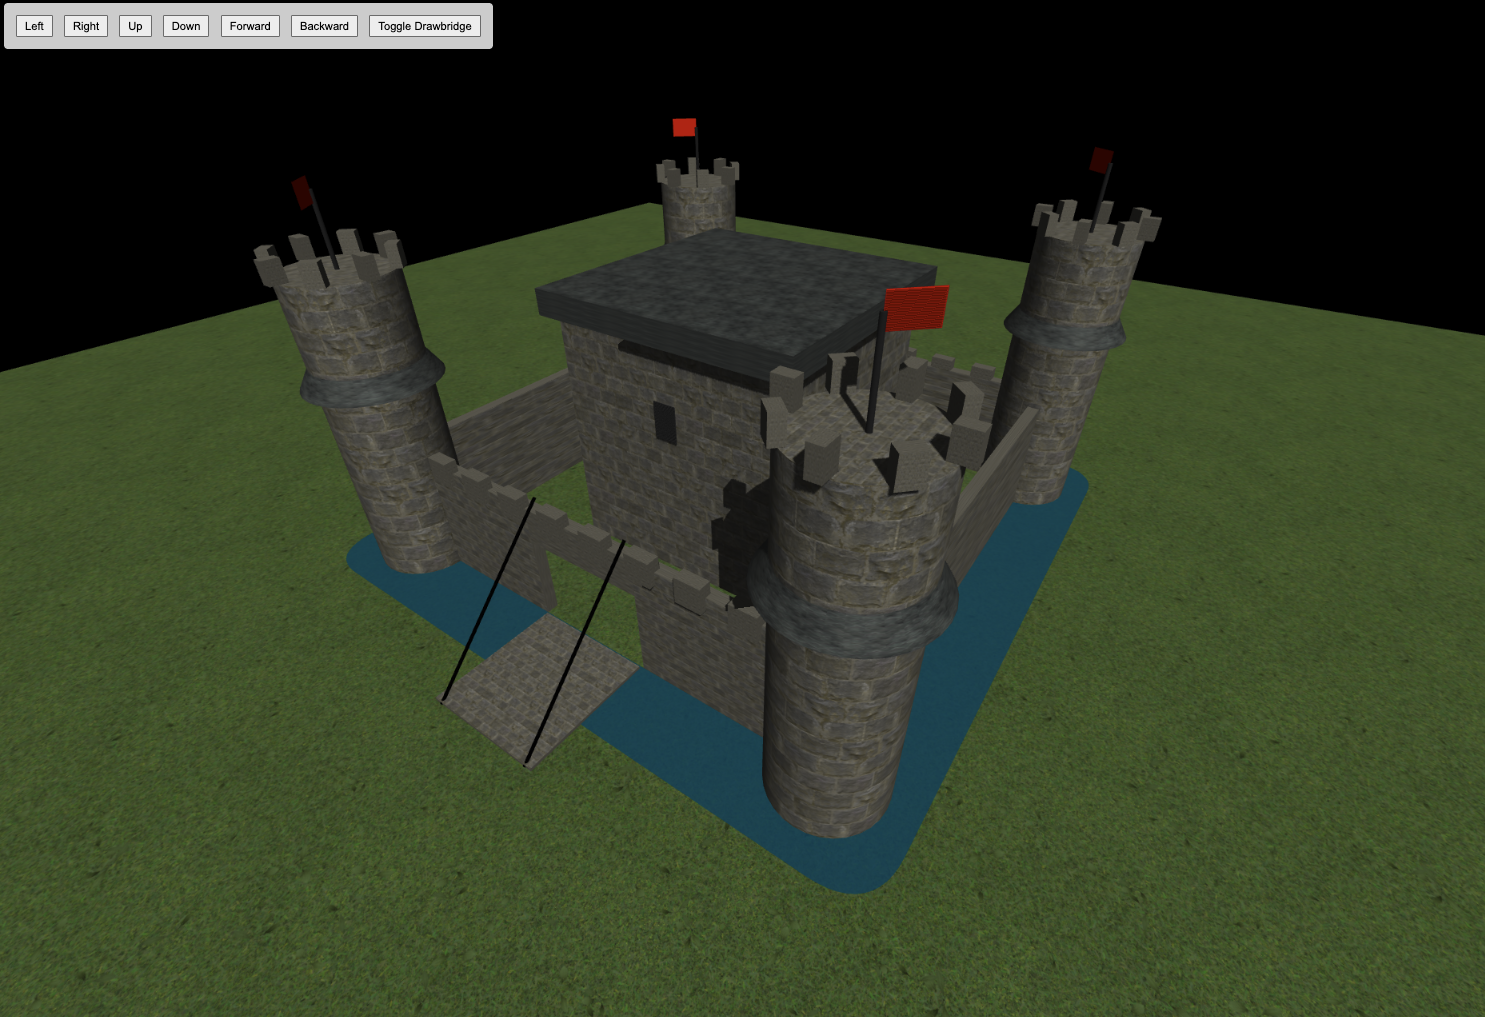
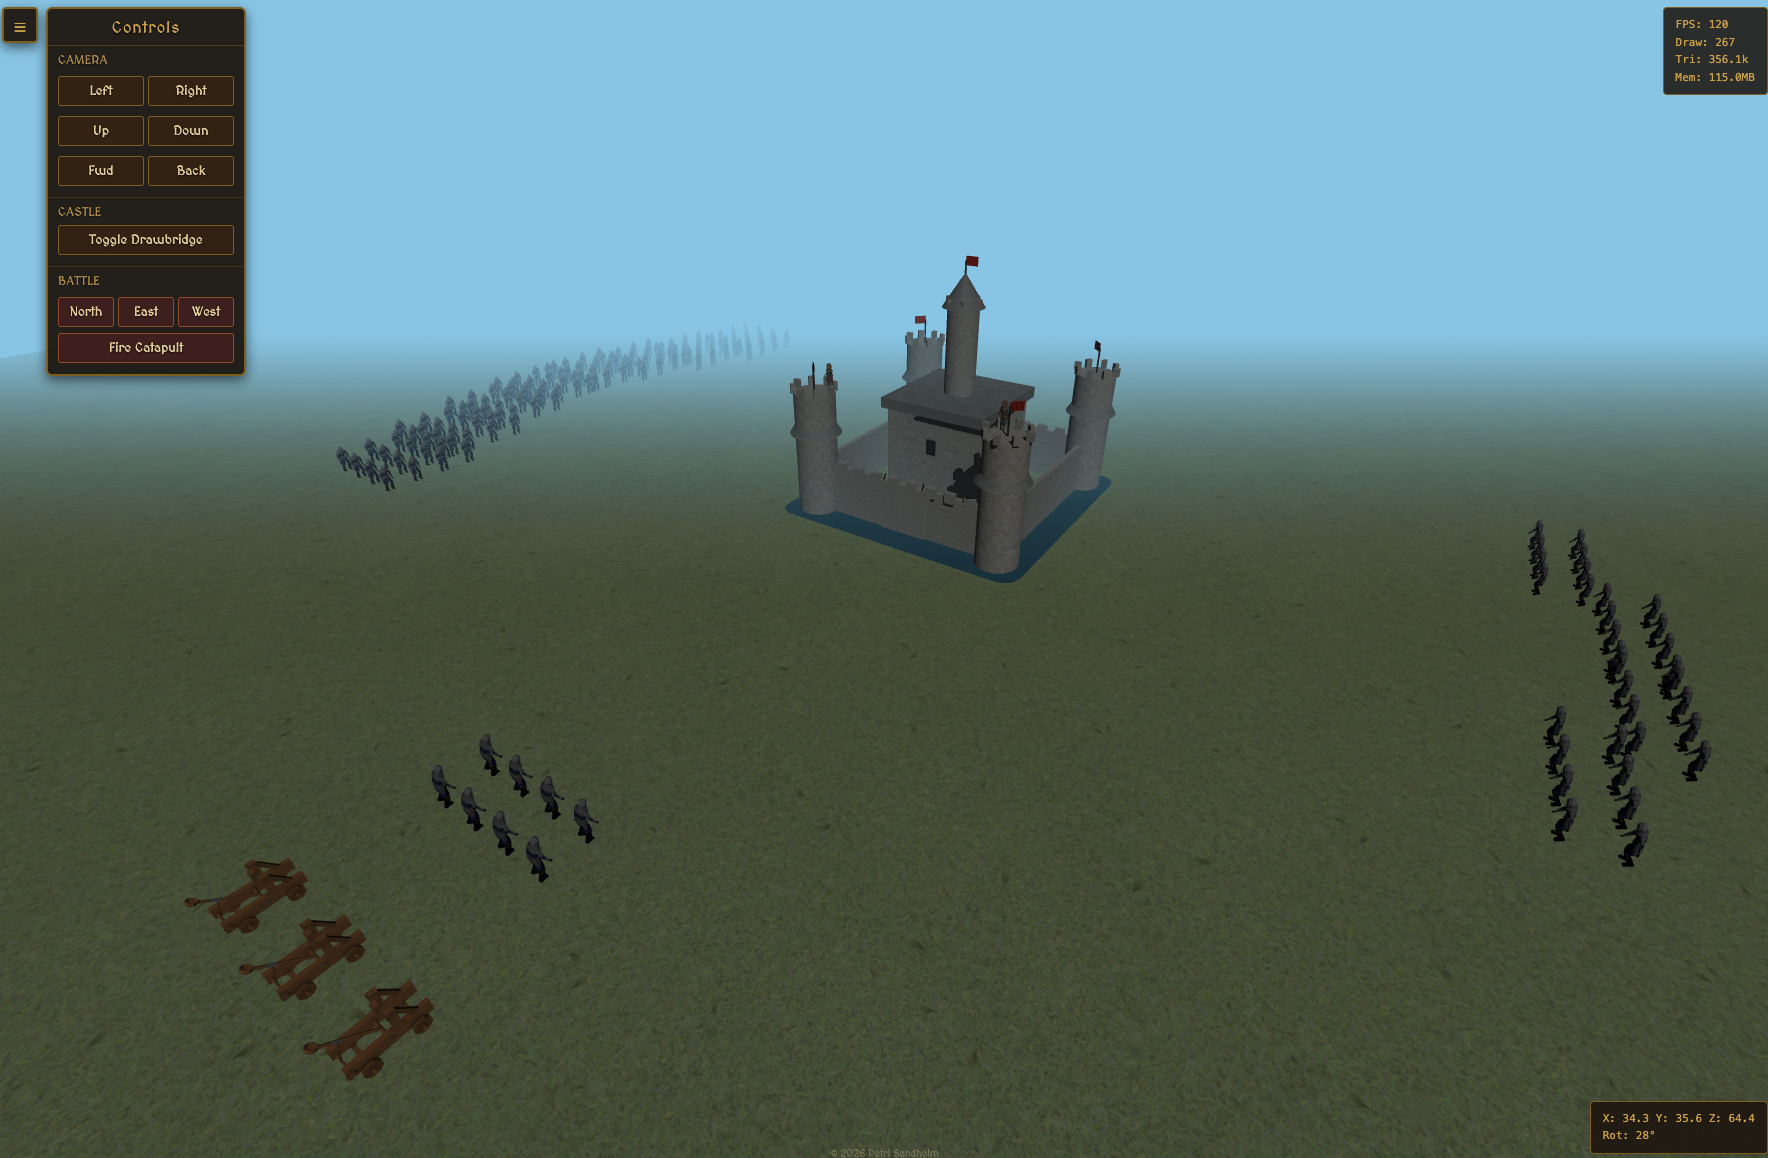
Add LICENSE, responsive UI, stats toggle, app footer, updated screenshot
- MIT LICENSE file
- README rewrite with full feature docs and license link
- Copyright footer in app
- Stats toggle button in controls panel for mobile
- Responsive splash screen and controls for small screens
- Updated screenshot with current battle scene

diff --git a/index.html b/index.html
@@ -18,6 +18,7 @@
 
         canvas {
             display: block;
+            touch-action: none;
         }
 
         #controls {
@@ -166,6 +167,8 @@
         #splash-content {
             text-align: center;
             font-family: 'MedievalSharp', serif;
+            padding: 0 20px;
+            max-width: 500px;
         }
 
         #splash h1 {
@@ -204,6 +207,19 @@
             display: none;
         }
 
+        #app-footer {
+            position: absolute;
+            bottom: 0;
+            left: 0;
+            width: 100%;
+            text-align: center;
+            padding: 6px 0;
+            color: rgba(180, 160, 120, 0.5);
+            font-family: 'MedievalSharp', serif;
+            font-size: 10px;
+            pointer-events: none;
+        }
+
         @media (max-width: 480px) {
             #controls {
                 left: 12px;
@@ -214,6 +230,39 @@
 
             .btn-row {
                 flex-wrap: wrap;
+            }
+
+            #splash h1 {
+                font-size: 32px;
+            }
+
+            #splash p {
+                font-size: 13px;
+                padding: 0 16px;
+            }
+
+            #enterBtn {
+                font-size: 16px;
+                padding: 12px 30px;
+            }
+
+            #perf-monitor {
+                font-size: 9px;
+                padding: 4px 8px;
+                top: 6px;
+                right: 6px;
+            }
+        }
+
+        @media (max-width: 360px) {
+            #controls {
+                width: calc(100vw - 16px);
+                left: 8px;
+            }
+
+            .controls-btn {
+                font-size: 11px;
+                padding: 5px 6px;
             }
         }
     </style>
@@ -265,7 +314,14 @@
             </div>
             <button class="controls-btn action" id="fireCatapult">Fire Catapult</button>
         </div>
+
+        <div class="section">
+            <div class="section-title">Debug</div>
+            <button class="controls-btn" id="toggleStats">Toggle Stats (P)</button>
+        </div>
     </div>
+
+    <div id="app-footer">&copy; 2026 Petri Sandholm</div>
 
     <script>
         document.getElementById('togglePanel').addEventListener('click', () => {

diff --git a/src/controls.js b/src/controls.js
@@ -1,4 +1,4 @@
-import { camera, toggleDrawbridge, marchNorth, marchEast, marchWest, fireCatapult } from './main.js';
+import { camera, toggleDrawbridge, marchNorth, marchEast, marchWest, fireCatapult, toggleStatsDisplay } from './main.js';
 
 // Camera movement
 const moveDistance = 2;
@@ -24,3 +24,4 @@ document.getElementById('marchNorth').addEventListener('click', () => marchNorth
 document.getElementById('marchEast').addEventListener('click', () => marchEast());
 document.getElementById('marchWest').addEventListener('click', () => marchWest());
 document.getElementById('fireCatapult').addEventListener('click', () => fireCatapult());
+document.getElementById('toggleStats').addEventListener('click', () => toggleStatsDisplay());

diff --git a/src/main.js b/src/main.js
@@ -41,12 +41,15 @@ document.body.appendChild(camDiv);
 
 // Toggle stats with P key
 let statsVisible = true;
+
+export function toggleStatsDisplay() {
+    statsVisible = !statsVisible;
+    perfDiv.style.display = statsVisible ? 'block' : 'none';
+    camDiv.style.display = statsVisible ? 'block' : 'none';
+}
+
 document.addEventListener('keydown', (e) => {
-    if (e.key === 'p' || e.key === 'P') {
-        statsVisible = !statsVisible;
-        perfDiv.style.display = statsVisible ? 'block' : 'none';
-        camDiv.style.display = statsVisible ? 'block' : 'none';
-    }
+    if (e.key === 'p' || e.key === 'P') toggleStatsDisplay();
 });
 
 // OrbitControls

diff --git a/README.md b/README.md
@@ -1,78 +1,90 @@
-# Castle3D - Interactive 3D Castle Demo
+# Castle Siege — 3D Medieval Battle Simulator
 
 ![Castle Screenshot](screenshot.png)
 
-A game-style 3D castle built with Three.js, featuring interactive controls, animated gate mechanics, and a defensive moat system. The castle showcases a central keep with perimeter walls, corner towers, and a water moat with rounded corners surrounding the defensive structure.
+An interactive 3D medieval battle simulator built with Three.js. Three armies of knights march toward a fortified castle from different directions while catapults launch boulders in parabolic arcs. Defend the keep with tower archers, raise the drawbridge, and command your forces through a medieval-themed control panel.
 
-## Features
+## Live Features
 
-### Castle Architecture
-- **Central Keep**: A 10x10x10 stone keep with textured brick walls and a flat roof
-- **Perimeter Walls**: Four defensive walls (20x5) with crenellated battlements
-- **Corner Towers**: Four cylindrical towers at each corner with conical roofs
-- **Gate System**: Dual-hinged gate that opens and closes with smooth animation
-- **Windows**: Dark glass windows on the keep with metal frame decorations
+- **Fortified Castle** — Central keep with center tower, four corner towers with battlements and flags, perimeter walls with crenellations, animated drawbridge with chains, and a water moat with rounded corners
+- **Knight Armies** — Three groups (North, East, West) with animated walk cycles, marching in formation toward the castle walls. East and West forces attack in curved arc formations
+- **Catapult Siege** — Three catapults positioned behind the northern army. Click to fire individual catapults or launch a volley. Boulders fly in parabolic arcs with random scatter, spinning as they fall
+- **Tower Defenders** — Archer models stationed on the two front towers, facing the incoming attack
+- **Battle Sounds** — Marching loop plays while armies advance, bomb sound on each catapult launch
+- **Splash Screen** — Blur overlay entry screen with battle description and controls guide
+- **Performance Monitor** — Real-time FPS, draw calls, triangle count, and memory usage (top-right). Camera coordinates displayed bottom-right. Toggle with P key
 
-### Defensive Features
-- **Water Moat**: A rectangular moat with rounded corners surrounding the castle walls, providing a defensive barrier
-- **Gate Rings**: Decorative metal rings on the gate for authentic medieval aesthetics
+## Controls
 
-### Interactive Controls
-- **Camera Controls**: OrbitControls for smooth camera rotation and zoom (mouse/trackpad)
-- **Movement Controls**: Six directional buttons to move the entire castle:
-  - Left/Right (X-axis)
-  - Up/Down (Y-axis)
-  - Forward/Backward (Z-axis)
-- **Gate Toggle**: Button to open and close the castle gate
+- **Mouse/Touch** — Orbit and zoom the camera
+- **North / East / West** — March or halt knight groups (toggle)
+- **Fire Catapult** — Launch volley from all three catapults
+- **Click Catapult** — Fire a single catapult with random target
+- **Toggle Drawbridge** — Raise or lower the drawbridge with chain animation
+- **Camera Buttons** — Nudge camera position (Left, Right, Up, Down, Fwd, Back)
+- **P Key** — Toggle performance stats overlay
 
-### Visual Features
-- **Textured Materials**: 
-  - Stone brick texture for walls and keep
-  - Roof tile texture for tower and keep roofs
-  - Grass texture for ground
-  - Metal materials for decorative elements
-- **Lighting**: Ambient and directional lighting with shadow mapping
-- **Optimized Rendering**: Anti-aliasing enabled for smooth visuals
+## Knight Formations
 
-## Installation
+| Group | Size | Formation | Direction |
+|-------|------|-----------|-----------|
+| **North** | 8 | 2 rows of 4 | Straight at the drawbridge |
+| **East** | 32 | 4 groups of 8, arc curve | East wall |
+| **West** | 128 | 8 groups of 16, arc curve (4 rows deep) | West wall |
 
-```bash
-npm install
-```
+## Tech Stack
 
-## Running
-
-```bash
-npm start
-```
-
-The application will start on `http://localhost:5173`
-
-## Technology Stack
-
-- **Three.js** (v0.174.0) - 3D graphics library
-- **Vite** (v6.2.2) - Build tool and dev server
-- **OrbitControls** - Camera control system
+- **Three.js** v0.174.0 — 3D rendering engine
+- **Vite** v6.2.2 — Dev server and bundler
+- **FBXLoader** — Knight character models with skeletal animation
+- **GLTFLoader** — Archer and catapult models
 
 ## Project Structure
 
 ```
 castle/
 ├── src/
-│   ├── main.js      # Main 3D scene, castle construction, and rendering
-│   └── controls.js  # Movement and interaction controls
-├── textures/        # Texture files (bricks, roof, grass)
-├── index.html       # HTML entry point
-└── package.json     # Dependencies and scripts
+│   ├── main.js          # Scene, castle geometry, characters, animation loop
+│   ├── controls.js      # Button event handlers and camera movement
+│   ├── paths.json       # Knight and catapult motion path data
+│   └── sounds/          # March loop and catapult launch audio
+├── textures/
+│   ├── knights/         # Knight FBX/GLB models (walk, run, attack)
+│   ├── archer/          # Archer GLB model
+│   ├── catapult/        # Catapult GLB model
+│   ├── bricks.jpg       # Stone wall texture
+│   ├── roof.jpg         # Roof tile texture
+│   └── grass.jpg        # Ground texture
+├── index.html           # Entry point, splash screen, controls UI
+├── vite.config.js       # Dev server config (port 5181)
+└── package.json
 ```
 
-## Controls
+## Getting Started
 
-- **Mouse/Trackpad**: Rotate and zoom the camera
-- **On-screen Buttons**: Move the castle in 6 directions
-- **Toggle Gate Button**: Open/close the castle gate
+```bash
+npm install
+npm run dev
+```
 
-## Technical Details
+Opens at `http://localhost:5181`
 
-The castle is built as a THREE.Group containing all meshes, allowing for unified movement and transformations. The gate system uses pivot groups for proper hinge-based rotation. Shadow mapping is configured to avoid artifacts on the ground plane while maintaining realistic lighting on other structures.
+## How It Works
 
+### Castle Construction
+The castle is built as a `THREE.Group` containing all meshes — walls, towers, keep, battlements, flags, drawbridge, and chains. The drawbridge uses a pivot group for hinge-based rotation with chain meshes that dynamically stretch between wall anchors and the bridge.
+
+### Character System
+Each character (knight, archer, catapult) is created with a motion path defined in `paths.json`. Knights load from FBX files with walk animations, wrapped in `THREE.Group` containers for proper origin centering. The animation mixer updates each frame, and position tracks are filtered to prevent root motion snap-back on loop.
+
+### Motion Paths
+Paths are defined as start positions with waypoints. Knights use segment-based routing with smooth turn interpolation. Characters face their movement direction automatically. Arc formations are generated programmatically — outer groups start further from the castle, creating a curved battle line.
+
+### Catapult Physics
+Boulders follow a parametric parabolic arc: X and Z are linearly interpolated from start to target, Y follows `arcHeight * 4t(1-t)` for the parabola. Boulders spin on two axes during flight and are removed on impact.
+
+## License
+
+See [MIT](LICENSE)
+
+---
